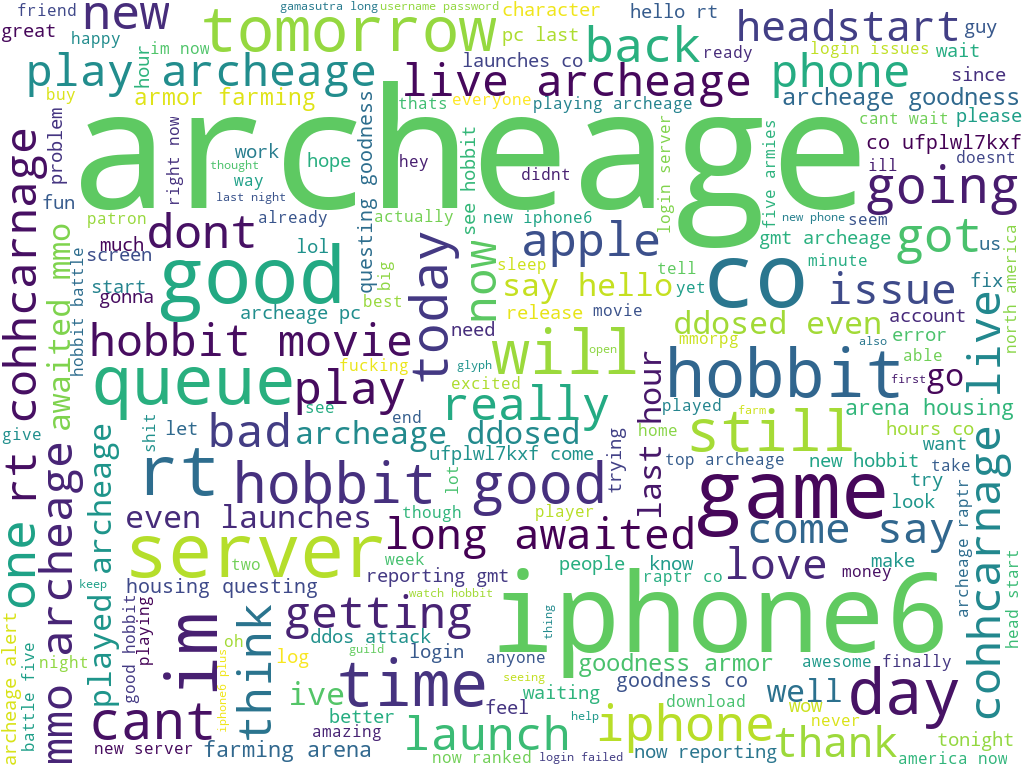
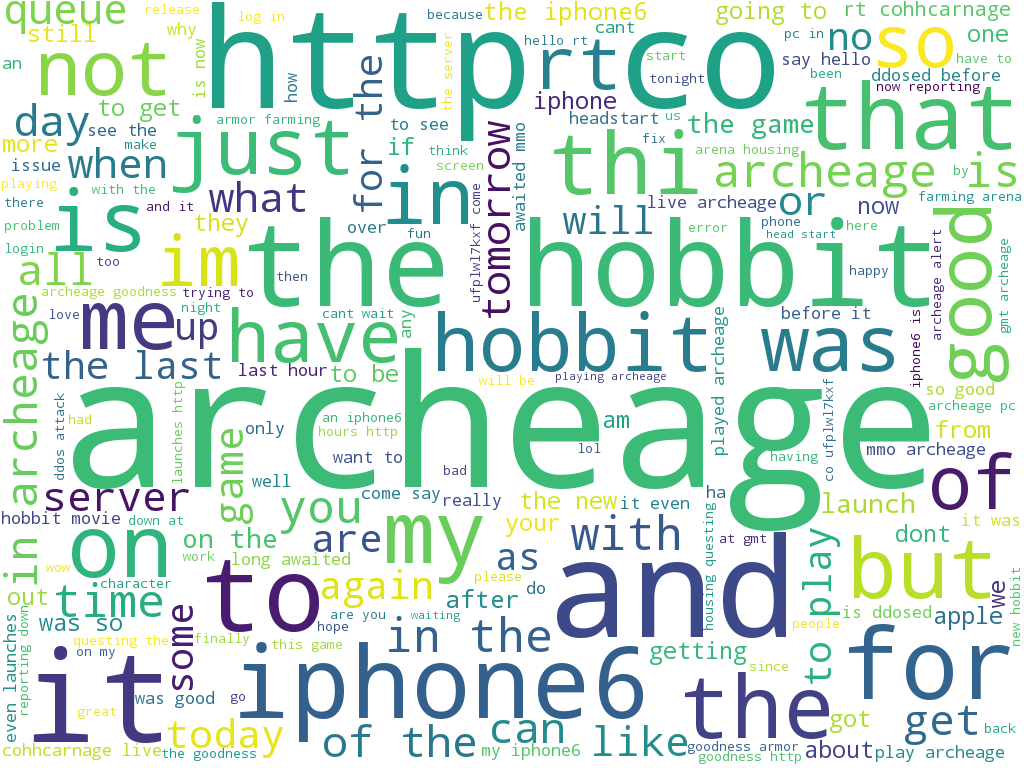
adicionado eixos na zipfcurve

diff --git a/preprocess.py b/preprocess.py
@@ -1,7 +1,7 @@
 import csv
 import json
 import numpy as np
-#from wordcloud import WordCloud --> Módulo wordcloud
+#from wordcloud import WordCloud #--> Módulo wordcloud
 import matplotlib.pyplot as plt
 from sklearn.feature_extraction.text import CountVectorizer #--> Classe utilizada para converter o array de strings em um array de binários
 
@@ -26,7 +26,7 @@ def stats(name, data):
 
 def wordCloud(text):
     # Generate a word cloud image
-    wordcloud = WordCloud(width=1024, height=768, background_color="white").generate(text)
+    wordcloud = WordCloud(width=1024, height=768, background_color="white", stopwords=[]).generate(text)
 
     wordcloud.to_file('cloudword.png')
     # Display the generated image:
@@ -57,7 +57,7 @@ def main():
     save('complete.json', complete)
     
     tweets = [item['tweet'] for item in complete]    
-    #wordCloud(' '.join(tweets)) --> Juntar as palavras no gráfico wordcloud
+    #wordCloud(' '.join(tweets)) #--> Juntar as palavras no gráfico wordcloud
 
     uniquewords = set()
     allwords = []
@@ -84,7 +84,7 @@ def main():
     featuresnames = list(vectorizer.get_feature_names())
     save('sklearn_featuresnames.json', featuresnames)
     print('sklearn_featuresnames, size: {}'.format(len(featuresnames)))
-    save('sklearn_vocabulary.json', vectorizer.vocabulary_) #--> Exibe o vocabulario extraido pela função fit_transform()
+    #save('sklearn_vocabulary.json', vectorizer.vocabulary_) #--> Exibe o vocabulario extraido pela função fit_transform()
     
     """Teste inicial de conversão
     corpus = ['UNC played Duke in basketball', 'Duke lost the basketball game']

diff --git a/zipfcurve.py b/zipfcurve.py
@@ -20,7 +20,13 @@ class ZipfCurve:
         values.sort(reverse=True)        
         values = [[i,item] for i, item in enumerate(values)]
         plt.plot([row[0] for row in values], [row[1] for row in values])
+        plt.ylabel('Frequência do Termo')
+        plt.xlabel('Termos')
+        plt.title('Curva de Zipf')
+        plt.xticks([])
+        plt.savefig('zipfcurve.png')
         plt.show()
+        
 
     def lunh(self, percent):        
         size = len(self.sorted_frequency)
